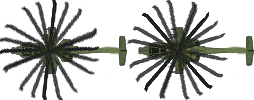
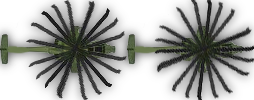
more enemies added
Added:
Soldier
Helicopter (art needs neatening on this)

Also Tank texture has been changed to the new one and the tank made
larger

diff --git a/DefendTheBase/DefendTheBase/ai.cs b/DefendTheBase/DefendTheBase/ai.cs
@@ -24,61 +24,67 @@ namespace DefendTheBase
             nextCoord = new Coordinates(0, 0);
         }
 
-        public bool PathMove(Squares[,] squares, int height, int width, ref Vector2 EnemyVect, ref Vector2 ScreenPos, float speed, float time, Vector2 Direction)
+        public bool PathMove(Squares[,] squares, int height, int width, ref Vector2 EnemyVect, ref Vector2 ScreenPos, float speed, float time, Vector2 Direction, string EnemyType)
         {
             if (!Moving)
             {
                 ScreenPos = new Vector2(Node.X, Node.Y);
 
 
-                if (currentCoord.x + 1 < width) // check array wont go out of bounds 
+                if (EnemyType != "Helicopter")
                 {
-                    if (!squares[(int)currentCoord.x + 1, (int)currentCoord.y].typeOfSquare.HasFlag(Squares.SqrFlags.Wall)) //check next square is not a wall
+                    if (currentCoord.x + 1 < width) // check array wont go out of bounds 
                     {
-                        if (squares[(int)currentCoord.x + 1, (int)currentCoord.y].sqrCoord.counter < tempInt) // check the square distance from endpoint is less than the current pos. 
+                        if (!squares[(int)currentCoord.x + 1, (int)currentCoord.y].typeOfSquare.HasFlag(Squares.SqrFlags.Wall)) //check next square is not a wall
                         {
-                            tempInt = squares[(int)currentCoord.x + 1, (int)currentCoord.y].sqrCoord.counter; // set the tempint to new distance value
-                            nextCoord = new Coordinates((int)currentCoord.x + 1, (int)currentCoord.y, tempInt); // set temp coord to the aipos + direction.
+                            if (squares[(int)currentCoord.x + 1, (int)currentCoord.y].sqrCoord.counter < tempInt) // check the square distance from endpoint is less than the current pos. 
+                            {
+                                tempInt = squares[(int)currentCoord.x + 1, (int)currentCoord.y].sqrCoord.counter; // set the tempint to new distance value
+                                nextCoord = new Coordinates((int)currentCoord.x + 1, (int)currentCoord.y, tempInt); // set temp coord to the aipos + direction.
+                            }
+                        }
+                    }
+
+
+                    if (currentCoord.x - 1 >= 0) // check array wont go out of bounds 
+                    {
+                        if (!squares[(int)currentCoord.x - 1, (int)currentCoord.y].typeOfSquare.HasFlag(Squares.SqrFlags.Wall)) //check next square is not a wall
+                        {
+                            if (squares[(int)currentCoord.x - 1, (int)currentCoord.y].sqrCoord.counter < tempInt) // check the square distance from endpoint is less than the current pos. 
+                            {
+                                tempInt = squares[(int)currentCoord.x - 1, (int)currentCoord.y].sqrCoord.counter; // set the tempint to new distance value
+                                nextCoord = new Coordinates((int)currentCoord.x - 1, (int)currentCoord.y, tempInt); // set temp coord to the aipos + direction.
+                            }
+                        }
+                    }
+
+                    if (currentCoord.y + 1 < height) // check array wont go out of bounds 
+                    {
+                        if (!squares[(int)currentCoord.x, (int)currentCoord.y + 1].typeOfSquare.HasFlag(Squares.SqrFlags.Wall)) //check next square is not a wall
+                        {
+                            if (squares[(int)currentCoord.x, (int)currentCoord.y + 1].sqrCoord.counter < tempInt) // check the square distance from endpoint is less than the current pos. 
+                            {
+                                tempInt = squares[(int)currentCoord.x, (int)currentCoord.y + 1].sqrCoord.counter; // set the tempint to new distance value
+                                nextCoord = new Coordinates((int)currentCoord.x, (int)currentCoord.y + 1, tempInt); // set temp coord to the aipos + direction.
+                            }
+                        }
+                    }
+
+                    if (currentCoord.y - 1 >= 0) // check array wont go out of bounds 
+                    {
+                        if (!squares[(int)currentCoord.x, (int)currentCoord.y - 1].typeOfSquare.HasFlag(Squares.SqrFlags.Wall)) //check next square is not a wall
+                        {
+                            if (squares[(int)currentCoord.x, (int)currentCoord.y - 1].sqrCoord.counter < tempInt) // check the square distance from endpoint is less than the current pos. 
+                            {
+                                tempInt = squares[(int)currentCoord.x, (int)currentCoord.y - 1].sqrCoord.counter; // set the tempint to new distance value
+                                nextCoord = new Coordinates((int)currentCoord.x, (int)currentCoord.y - 1, tempInt); // set temp coord to the aipos + direction.
+                            }
                         }
                     }
                 }
 
-
-                if (currentCoord.x - 1 >= 0) // check array wont go out of bounds 
-                {
-                    if (!squares[(int)currentCoord.x - 1, (int)currentCoord.y].typeOfSquare.HasFlag(Squares.SqrFlags.Wall)) //check next square is not a wall
-                    {
-                        if (squares[(int)currentCoord.x - 1, (int)currentCoord.y].sqrCoord.counter < tempInt) // check the square distance from endpoint is less than the current pos. 
-                        {
-                            tempInt = squares[(int)currentCoord.x - 1, (int)currentCoord.y].sqrCoord.counter; // set the tempint to new distance value
-                            nextCoord = new Coordinates((int)currentCoord.x - 1, (int)currentCoord.y, tempInt); // set temp coord to the aipos + direction.
-                        }
-                    }
-                }
-
-                if (currentCoord.y + 1 < height) // check array wont go out of bounds 
-                {
-                    if (!squares[(int)currentCoord.x, (int)currentCoord.y + 1].typeOfSquare.HasFlag(Squares.SqrFlags.Wall)) //check next square is not a wall
-                    {
-                        if (squares[(int)currentCoord.x, (int)currentCoord.y + 1].sqrCoord.counter < tempInt) // check the square distance from endpoint is less than the current pos. 
-                        {
-                            tempInt = squares[(int)currentCoord.x, (int)currentCoord.y + 1].sqrCoord.counter; // set the tempint to new distance value
-                            nextCoord = new Coordinates((int)currentCoord.x, (int)currentCoord.y + 1, tempInt); // set temp coord to the aipos + direction.
-                        }
-                    }
-                }
-
-                if (currentCoord.y - 1 >= 0) // check array wont go out of bounds 
-                {
-                    if (!squares[(int)currentCoord.x, (int)currentCoord.y - 1].typeOfSquare.HasFlag(Squares.SqrFlags.Wall)) //check next square is not a wall
-                    {
-                        if (squares[(int)currentCoord.x, (int)currentCoord.y - 1].sqrCoord.counter < tempInt) // check the square distance from endpoint is less than the current pos. 
-                        {
-                            tempInt = squares[(int)currentCoord.x, (int)currentCoord.y - 1].sqrCoord.counter; // set the tempint to new distance value
-                            nextCoord = new Coordinates((int)currentCoord.x, (int)currentCoord.y - 1, tempInt); // set temp coord to the aipos + direction.
-                        }
-                    }
-                }
+                else if (EnemyType == "Helicopter")
+                    nextCoord = GameRoot.ENDPOINT;
 
                 Node = new Vector2((nextCoord.x * GameRoot.SQUARESIZE) + GameRoot.SQUARESIZE / 2, (int)GameRoot.grid.gridBorder.Y + (nextCoord.y * GameRoot.SQUARESIZE) + GameRoot.SQUARESIZE / 2);
 

diff --git a/DefendTheBase/DefendTheBase/Enemy.cs b/DefendTheBase/DefendTheBase/Enemy.cs
@@ -105,7 +105,12 @@ namespace DefendTheBase
         public bool pathFound = false;
         public bool IsDestroyed = false;
         public bool towerInRange = false;
-        public float time, shootTimer;
+        public bool usingSpriteSheet;
+        public float time, shootTimer, animElasped, targetElasped;
+        public int spriteSheetNo = 0;
+        public int sheetFrameTotal;
+
+        Rectangle SourceRect;
 
         bool moving = false;
 
@@ -115,6 +120,8 @@ namespace DefendTheBase
             EnemyID = enemyID;
             EnemyListener.AddEnemy(this);
             shootTimer = 1;
+
+            animElasped = 0;
         }
 
         public void Update(Grid.gridFlags endPoint, GameTime gameTime)
@@ -125,7 +132,7 @@ namespace DefendTheBase
 
             if (GameRoot.grid.pathFound) // this needs some form of trigger 
             {
-               moving = PathMove(GameRoot.grid.gridSquares, GameRoot.HEIGHT, GameRoot.WIDTH, ref enemyVect, ref ScreenPos, speed, time, Direction);
+               moving = PathMove(GameRoot.grid.gridSquares, GameRoot.HEIGHT, GameRoot.WIDTH, ref enemyVect, ref ScreenPos, speed, time, Direction, EnemyType);
             }
 
             if (GameRoot.ENDPOINT != null)
@@ -165,6 +172,16 @@ namespace DefendTheBase
             if (!towerInRange)
                 TurretDirection = Direction;
 
+            if (usingSpriteSheet)
+            {
+                EffectManager.spriteSheetUpdate(ref spriteSheetNo, ref animElasped, targetElasped, sheetFrameTotal, gameTime);
+
+                if(EnemyType == "Soldier")
+                    SourceRect = new Rectangle(0, spriteSheetNo * Art.Soldier.Height / 4, Art.Soldier.Width, Art.Soldier.Height / 4);
+                else if (EnemyType == "Helicopter")
+                    SourceRect = new Rectangle(spriteSheetNo * Art.Helicopter.Width / 2, 0, Art.Helicopter.Width / 2, Art.Helicopter.Height); 
+            }
+
         }
 
         public void Draw(SpriteBatch sb)
@@ -173,7 +190,18 @@ namespace DefendTheBase
             if (EnemyType == "Tank")
             {
                 sb.Draw(Art.TankBottom, new Vector2(ScreenPos.X, ScreenPos.Y), null, Color.White, Direction.ToAngle(), new Vector2(Art.TankBottom.Width / 2, Art.TankBottom.Height / 2), 1f, SpriteEffects.None, 0);
-                sb.Draw(Art.TankTop, new Vector2(ScreenPos.X, ScreenPos.Y), null, Color.White, TurretDirection.ToAngle(), new Vector2(Art.TankTop.Width / 3, Art.TankTop.Height / 2), 1f, SpriteEffects.None, 0);
+                sb.Draw(Art.TankTop, new Vector2(ScreenPos.X, ScreenPos.Y), null, Color.White, TurretDirection.ToAngle(), new Vector2(Art.TankTop.Width / 5, Art.TankTop.Height / 2), 1f, SpriteEffects.None, 0);
+            }
+
+            else if (EnemyType == "Soldier")
+            {
+                sb.Draw(Art.Soldier, new Vector2(ScreenPos.X, ScreenPos.Y), SourceRect, Color.White, Direction.ToAngle(), new Vector2(SourceRect.Width /2, SourceRect.Height/2), 1f, SpriteEffects.None, 0);
+            
+            }
+
+            else if (EnemyType == "Helicopter")
+            {
+                sb.Draw(Art.Helicopter, new Vector2(ScreenPos.X, ScreenPos.Y), SourceRect, Color.White, Direction.ToAngle(), new Vector2(SourceRect.Width / 2, SourceRect.Height / 2), 1f, SpriteEffects.None, 0);
             }
         }
     }
@@ -184,6 +212,7 @@ namespace DefendTheBase
 
         private float m_hp = 20;
         private float m_speed = 3f;
+        private bool spriteSheet = false;
 
         public TankEnemy(string enemyID)
             : base(enemyID)
@@ -191,10 +220,60 @@ namespace DefendTheBase
             hitPoints = m_hp;
             speed = m_speed;
             EnemyType = Type;
+            usingSpriteSheet = spriteSheet;
         }
+    }
+
+    class SoldierEnemy : Enemy
+    {
+        public string Type = "Soldier";
+
+        private float frameSpeed = 100;
+        private int frameTotal = 3; // total - 1
+
+        private float m_hp = 2;
+        private float m_speed = 2;
+      
+        private bool spriteSheet = true;
+        
+
+        public SoldierEnemy(string enemyID)
+            : base(enemyID)
+        {
+            hitPoints = m_hp;
+            speed = m_speed;
+            EnemyType = Type;
+            usingSpriteSheet = spriteSheet;
+            targetElasped = frameSpeed;
+            sheetFrameTotal = frameTotal;
+        }
+   
+    }
+
+    class HelicopterEnemy : Enemy
+    {
+        public string Type = "Helicopter";
+
+        private float frameSpeed = 1;
+        private int frameTotal = 1; // total - 1
+
+        private float m_hp = 10;
+        // helicopter speed works very differently, as it only heads towards one node currently it goes a lot faster than other units which use multiple nodes. dividing by 10 seems good
+        private float m_speed = 5f / 10; 
 
         
-    
+        private bool spriteSheet = true;
+
+        public HelicopterEnemy(string enemyID)
+            : base(enemyID)
+        {
+            hitPoints = m_hp;
+            speed = m_speed;
+            EnemyType = Type;
+            usingSpriteSheet = spriteSheet;
+            targetElasped = frameSpeed;
+            sheetFrameTotal = frameTotal;
+        }
     }
 
 }

diff --git a/DefendTheBase/DefendTheBase/Art.cs b/DefendTheBase/DefendTheBase/Art.cs
@@ -26,6 +26,8 @@ namespace DefendTheBase
 
         public static Texture2D TankBottom { get; private set; }
         public static Texture2D TankTop { get; private set; }
+        public static Texture2D Soldier { get; private set; }
+        public static Texture2D Helicopter { get; private set; }
 
         public static Texture2D Projectile { get; private set; }
         public static Texture2D ProjectileGun { get; private set; }
@@ -71,7 +73,8 @@ namespace DefendTheBase
             //Enemies
             TankBottom = content.Load<Texture2D>("Art/Images/UnitsEnemy/Tank_bottom");
             TankTop = content.Load<Texture2D>("Art/Images/UnitsEnemy/Tank_top");
-
+            Soldier = content.Load<Texture2D>("Art/Images/UnitsEnemy/soldier");
+            Helicopter = content.Load<Texture2D>("Art/Images/UnitsEnemy/helicopter");
 
             // Projectiles
             Projectile = content.Load<Texture2D>("Art/Images/Projectiles/Projectile");

diff --git a/DefendTheBase/DefendTheBase/Managers/EffectManager.cs b/DefendTheBase/DefendTheBase/Managers/EffectManager.cs
@@ -1,0 +1,35 @@
+using System;
+using System.Collections.Generic;
+using System.Linq;
+using System.Text;
+using Microsoft.Xna.Framework;
+
+namespace DefendTheBase
+{
+    /// <summary>
+    /// Manages things like spritesheet and simple pixel effects
+    /// </summary>
+    public static class EffectManager
+    {
+
+        //Saves time not ahving to type these loops for each sheet, BUT each sheet will have to be either horizontal or vertical not both
+        public static void spriteSheetUpdate(ref int frame, ref float elasped, float target, int totalFrames, GameTime gt)
+        {
+            elasped += gt.ElapsedGameTime.Milliseconds;
+
+            if (elasped >= target)
+            {
+                frame ++;
+                elasped = 0;
+
+                if (frame > totalFrames)
+                    frame = 0;
+            }
+        }
+
+
+
+
+
+    }
+}

diff --git a/DefendTheBase/DefendTheBase/Managers/EnemyManager.cs b/DefendTheBase/DefendTheBase/Managers/EnemyManager.cs
@@ -14,7 +14,7 @@ namespace DefendTheBase
     /// </summary>
     public static class EnemyManager
     {
-        public static string[] TypeIDs = { "Tank" };
+        public static string[] TypeIDs = { "Tank", "Soldier", "Helicopter" };
         static List<Enemy> Enemies = new List<Enemy>();
         static List<string> EnemyIDs = new List<string>();
 
@@ -45,6 +45,10 @@ namespace DefendTheBase
         {
             if (TypeID == "Tank")
                 Enemies.Add(new TankEnemy(CreateID(TypeID)));
+            else if (TypeID == "Soldier")
+                Enemies.Add(new SoldierEnemy(CreateID(TypeID)));
+            else if (TypeID == "Helicopter")
+                Enemies.Add(new HelicopterEnemy(CreateID(TypeID)));
         }
 
         /// <summary>

diff --git a/UiExt/Ui.cs b/UiExt/Ui.cs
@@ -117,8 +117,7 @@ namespace RPGEx
         public bool GetActive
         {
             get { return active; }
-        }
-    
+        } 
     }
 
     /// <summary>
